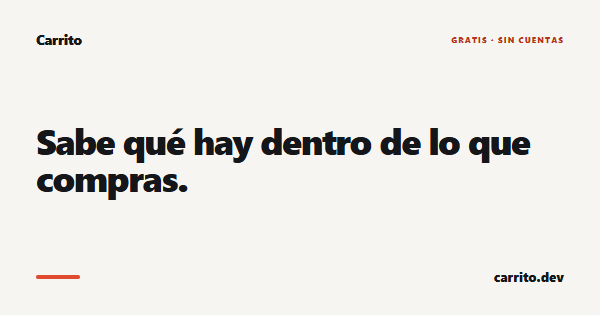
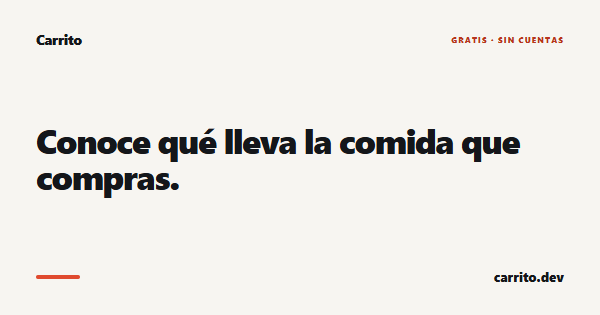
Restore the hero's second call to action, and make the mobile pass real
The framer-motion rewrite of Landing.tsx silently dropped the hero's Ko-fi button. Nothing caught it: the test asked the whole page for a Ko-fi link and took the first match, which was the support section's, so the suite stayed green while a call to action disappeared. Scoped to .hero__actions now, asserting exactly two links with the right hrefs - the test that would have failed.

Found by testing on a phone, which is what the audit asked for and what almost everyone will actually use. At 390px the hero rendered one button, and kofiTotal on the page was 1 instead of 2.

Mobile fixes alongside it. The sticky bar's background was color-mix alone, which needs iOS 16.2 or Chrome 111: unsupported, it leaves a sticky bar with NO background, so the page scrolls under the wordmark on exactly the phones most people hold. Plain rgba first, then the enhancement, plus the -webkit-backdrop-filter prefix. The bar's app link was 40px tall, under the 44px floor the app itself keeps, and it is the only route to the app from the top of the page. Landscape insets added to the landing wrapper.

The h1 test no longer pins the sentence. It went red when the headline was rewritten, and a test that fails on a copy edit is a test people learn to ignore - it asserts one h1 with something in it instead. The social card was regenerated to match the new headline, so the card, the meta tags and the page agree.

Changed region(s): [[0.06, 0.4, 0.9, 0.5143], [0.06, 0.5429, 0.33, 0.6571]]

diff --git a/src/landing/Landing.test.tsx b/src/landing/Landing.test.tsx
@@ -1,15 +1,20 @@
-import { render, screen } from '@testing-library/react';
+import { render, screen, within } from '@testing-library/react';
 import { describe, expect, it } from 'vitest';
 
 import { Landing } from './Landing.tsx';
 
 describe('the landing page', () => {
-  it('has exactly one h1, and it makes the claim the page exists for', () => {
+  /*
+    Deliberately does not pin the sentence. The headline is the owner's copy and gets
+    rewritten — a test that goes red on a copy edit teaches everyone to ignore red. It
+    asserts the *structure* the page needs: one h1, and one that says something.
+  */
+  it('has exactly one h1, and it says something', () => {
     render(<Landing />);
 
     const headings = screen.getAllByRole('heading', { level: 1 });
     expect(headings).toHaveLength(1);
-    expect(headings[0]).toHaveTextContent(/qué hay dentro/i);
+    expect((headings[0]!.textContent ?? '').trim().length).toBeGreaterThan(10);
   });
 
   it('offers the two exits, and the Ko-fi one leaves the tab', () => {
@@ -24,6 +29,24 @@ describe('the landing page', () => {
     expect(kofi).toHaveAttribute('href', 'https://ko-fi.com/sornosa');
     expect(kofi).toHaveAttribute('target', '_blank');
     expect(kofi).toHaveAttribute('rel', expect.stringContaining('noopener'));
+  });
+
+  /*
+    Scoped to the hero on purpose. The first version of this test asked the whole page
+    for a Ko-fi link and took the first match — which was the support section's, so the
+    suite stayed green when the hero's own button went missing during a rewrite. A test
+    that passes while a call to action disappears is worse than no test.
+  */
+  it('offers both exits in the hero, where a phone sees them first', () => {
+    render(<Landing />);
+
+    const actions = document.querySelector('.hero__actions');
+    expect(actions, 'the hero must have an actions row').not.toBeNull();
+
+    const links = within(actions as HTMLElement).getAllByRole('link');
+    expect(links).toHaveLength(2);
+    expect(links[0]).toHaveAttribute('href', '/app/');
+    expect(links[1]).toHaveAttribute('href', 'https://ko-fi.com/sornosa');
   });
 
   it('says which catalogue it actually has, since there is only one', () => {

diff --git a/src/landing/landing.css b/src/landing/landing.css
@@ -82,7 +82,13 @@ a {
   justify-content: space-between;
   gap: 1rem;
   padding: 0.9rem var(--gutter);
+  /* A plain value first, then the enhancement. `color-mix` needs iOS 16.2 or Chrome
+     111, and an unsupported declaration is not a graceful degradation here: it leaves
+     a *sticky* bar with no background at all, so on the phones most people are holding
+     the page scrolls under the wordmark. */
+  background: rgba(247, 245, 241, 0.92);
   background: color-mix(in srgb, var(--paper) 88%, transparent);
+  -webkit-backdrop-filter: blur(8px);
   backdrop-filter: blur(8px);
   border-bottom: 1px solid var(--line);
 }
@@ -95,7 +101,10 @@ a {
 }
 
 .bar__cta {
-  min-height: 2.5rem;
+  /* 44px, the same floor the app keeps for aisle-critical controls. This is the only
+     way to the app from the top of the page, and a thumb in a supermarket is not
+     precise. */
+  min-height: 2.75rem;
   display: inline-flex;
   align-items: center;
   padding: 0 1rem;
@@ -105,6 +114,13 @@ a {
   font-weight: 700;
   text-decoration: none;
   transition: background-color 180ms ease, color 180ms ease;
+}
+
+/* Landscape on a notched phone puts the content under the sensor housing otherwise.
+   Applied to the wrapper so every inner gutter shifts with it. */
+.landing {
+  padding-left: env(safe-area-inset-left);
+  padding-right: env(safe-area-inset-right);
 }
 
 /* ---- Layout ---- */

diff --git a/src/landing/Landing.tsx b/src/landing/Landing.tsx
@@ -124,6 +124,17 @@ function Hero() {
           >
             Abrir la app
           </motion.a>
+          <motion.a
+            className="btn btn--ghost"
+            href={KOFI_URL}
+            target="_blank"
+            rel="noopener noreferrer"
+            aria-label="Invítame a un café (se abre en una pestaña nueva)"
+            whileHover={{ y: -3 }}
+            whileTap={{ scale: 0.97 }}
+          >
+            Invítame a un café
+          </motion.a>
         </motion.div>
 
         <motion.p
